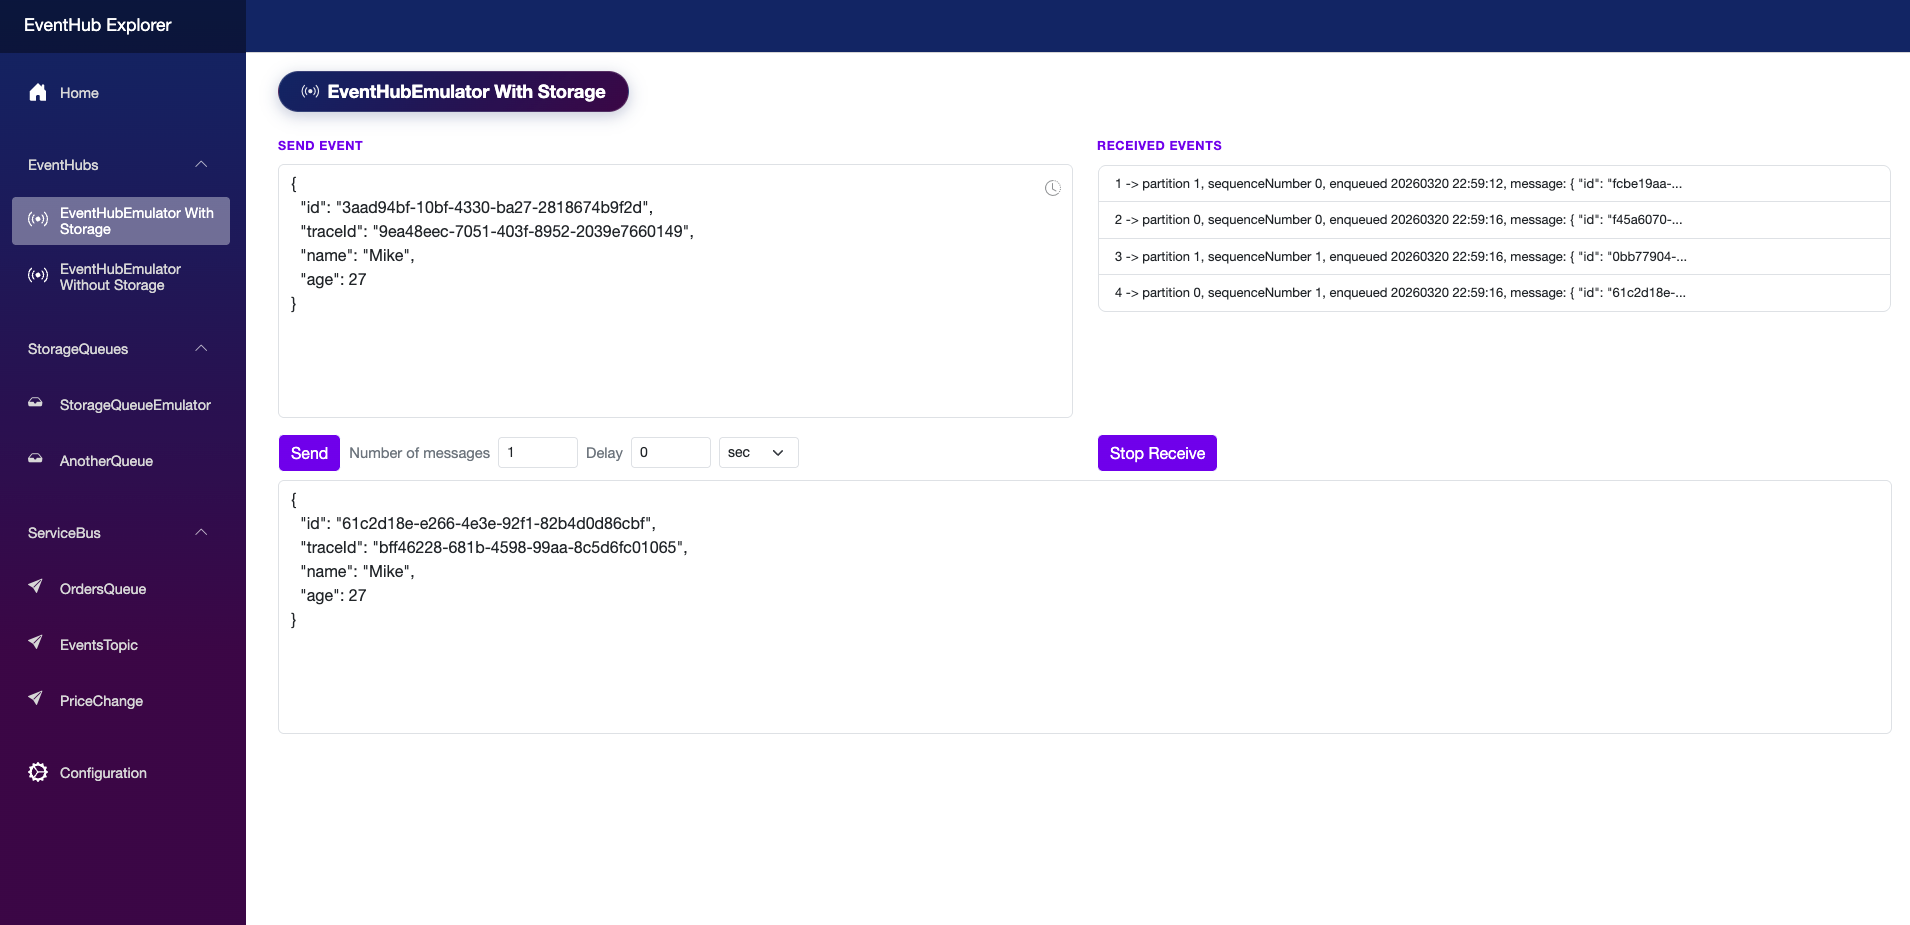
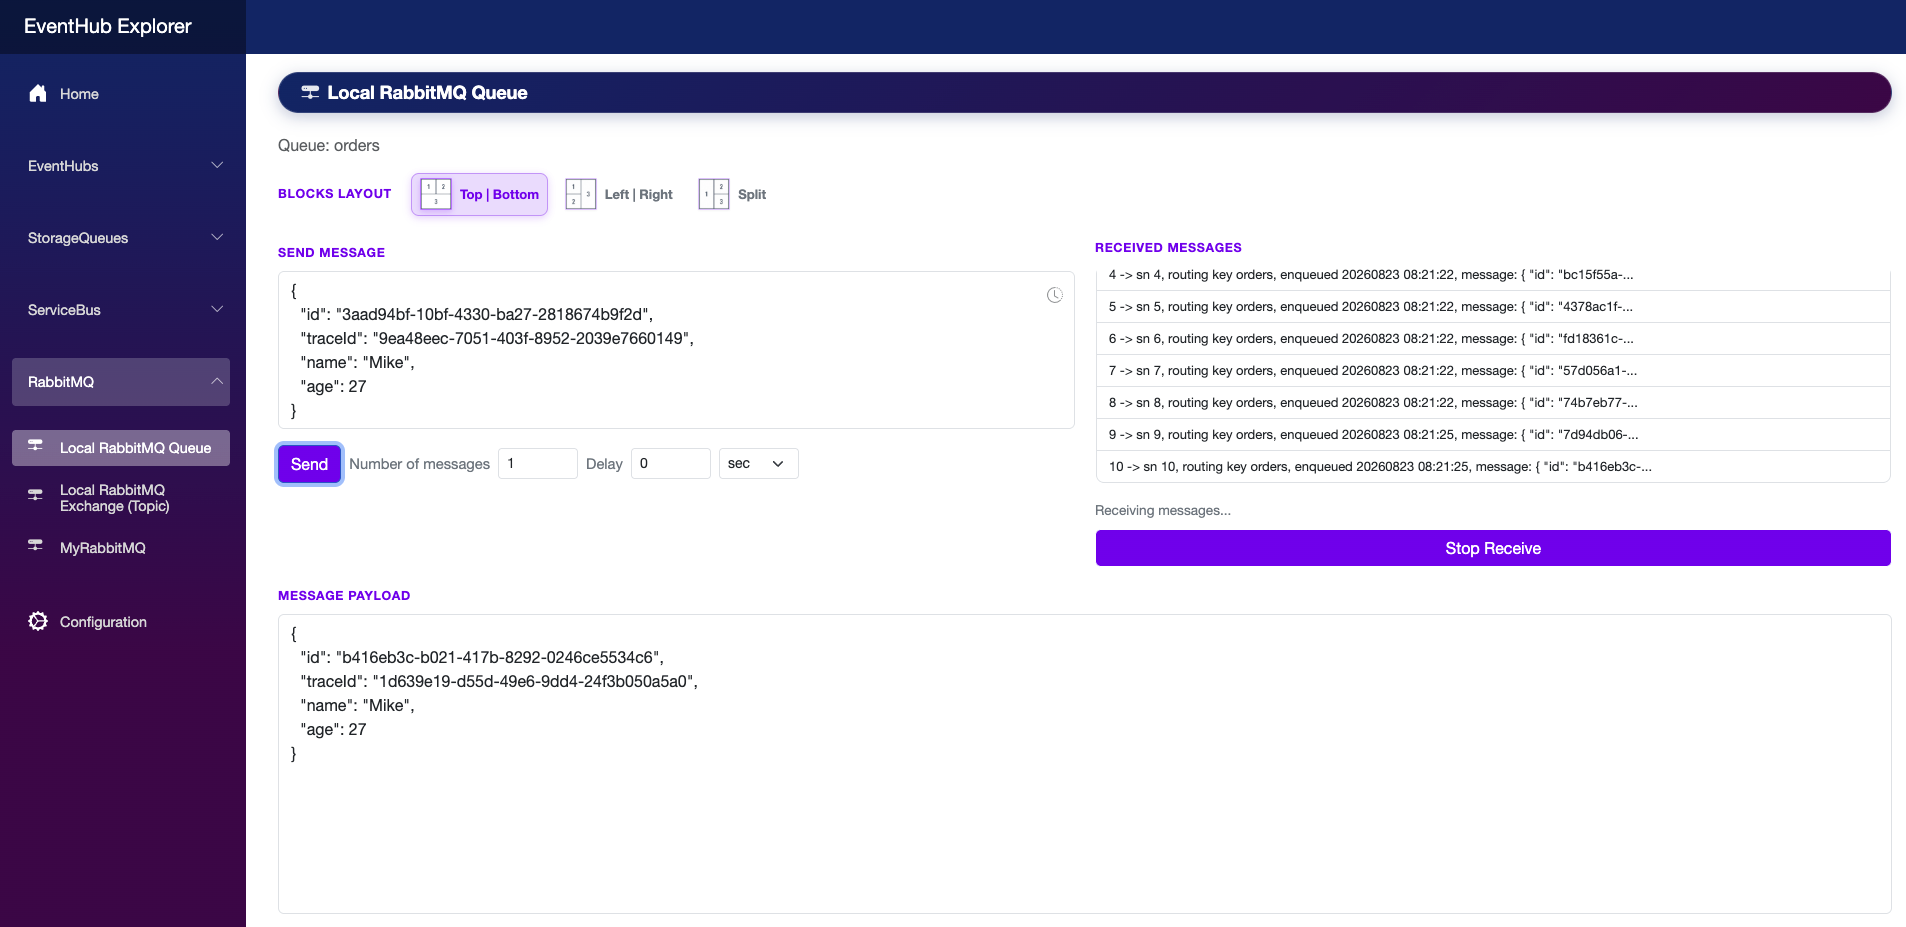
Update layout preset images (#22)

diff --git a/src/WebUI/Components/Shared/MessageLayoutPresetSelector.razor.css b/src/WebUI/Components/Shared/MessageLayoutPresetSelector.razor.css
@@ -63,49 +63,18 @@
 }
 
 .layout-preset-preview {
-    --preview-panel-muted: rgba(102, 16, 242, 0.24);
-    --preview-panel-strong: rgba(102, 16, 242, 0.56);
-    --preview-gutter: rgba(102, 16, 242, 0.1);
-    width: 2.25rem;
-    height: 1.5rem;
-    border-radius: 0.36rem;
+    width: 2rem;
+    height: 2rem;
+    border-radius: 0.1rem;
     border: 1px solid rgba(102, 16, 242, 0.25);
-    background-color: rgba(255, 255, 255, 0.95);
+    background-color: #fff;
+    object-fit: contain;
+    object-position: center;
+    display: block;
+    flex-shrink: 0;
+    aspect-ratio: 1 / 1;
     box-shadow: inset 0 0 0 1px rgba(255, 255, 255, 0.62), 0 1px 2px rgba(0, 0, 0, 0.04);
     transition: border-color var(--transition), box-shadow var(--transition), transform var(--transition), filter var(--transition);
-}
-
-.layout-preset-preview--top-bottom {
-    background-image:
-        linear-gradient(0deg, var(--preview-panel-muted), var(--preview-panel-muted)),
-        linear-gradient(0deg, var(--preview-panel-muted), var(--preview-panel-muted)),
-        linear-gradient(0deg, var(--preview-panel-strong), var(--preview-panel-strong)),
-        linear-gradient(0deg, var(--preview-gutter), var(--preview-gutter));
-    background-repeat: no-repeat;
-    background-size: 43% 37%, 43% 37%, 92% 40%, 100% 100%;
-    background-position: 5% 8%, 52% 8%, 4% 54%, 0 0;
-}
-
-.layout-preset-preview--left-right {
-    background-image:
-        linear-gradient(0deg, var(--preview-panel-muted), var(--preview-panel-muted)),
-        linear-gradient(0deg, var(--preview-panel-muted), var(--preview-panel-muted)),
-        linear-gradient(0deg, var(--preview-panel-strong), var(--preview-panel-strong)),
-        linear-gradient(0deg, var(--preview-gutter), var(--preview-gutter));
-    background-repeat: no-repeat;
-    background-size: 37% 38%, 37% 38%, 54% 86%, 100% 100%;
-    background-position: 5% 8%, 5% 54%, 43% 7%, 0 0;
-}
-
-.layout-preset-preview--split {
-    background-image:
-        linear-gradient(0deg, var(--preview-panel-strong), var(--preview-panel-strong)),
-        linear-gradient(0deg, var(--preview-panel-muted), var(--preview-panel-muted)),
-        linear-gradient(0deg, var(--preview-panel-muted), var(--preview-panel-muted)),
-        linear-gradient(0deg, var(--preview-gutter), var(--preview-gutter));
-    background-repeat: no-repeat;
-    background-size: 41% 86%, 45% 38%, 45% 38%, 100% 100%;
-    background-position: 5% 7%, 50% 8%, 50% 54%, 0 0;
 }
 
 .layout-preset-button:hover .layout-preset-preview {
@@ -116,11 +85,6 @@
 .layout-preset-button--active .layout-preset-preview {
     border-color: rgba(102, 16, 242, 0.55);
     box-shadow: inset 0 0 0 1px rgba(255, 255, 255, 0.72), 0 2px 6px rgba(102, 16, 242, 0.2);
-}
-
-.layout-preset-button--active .layout-preset-preview--top-bottom,
-.layout-preset-button--active .layout-preset-preview--left-right,
-.layout-preset-button--active .layout-preset-preview--split {
     filter: saturate(1.05) contrast(1.08);
 }
 

diff --git a/docs/index.html b/docs/index.html
@@ -400,7 +400,7 @@
           <figcaption>Configuration</figcaption>
         </figure>
         <figure><img src="./assets/Screenshot_03.png" alt="EventHub Explorer Event Hub page" loading="lazy">
-          <figcaption>Event Hub</figcaption>
+          <figcaption>Message Hub</figcaption>
         </figure>
       </div>
     </section>

diff --git a/README.md b/README.md
@@ -66,7 +66,7 @@ Use it against **production Azure** or fully **offline with emulators** (`eventh
 <p align="center">
   <img src="./docs/assets/Screenshot_03.png" alt="EventHubPage" width="90%"/>
 </p>
-<p align="center"><em>Event Hub</em></p>
+<p align="center"><em>Message Hub</em></p>
 
 ---
 
